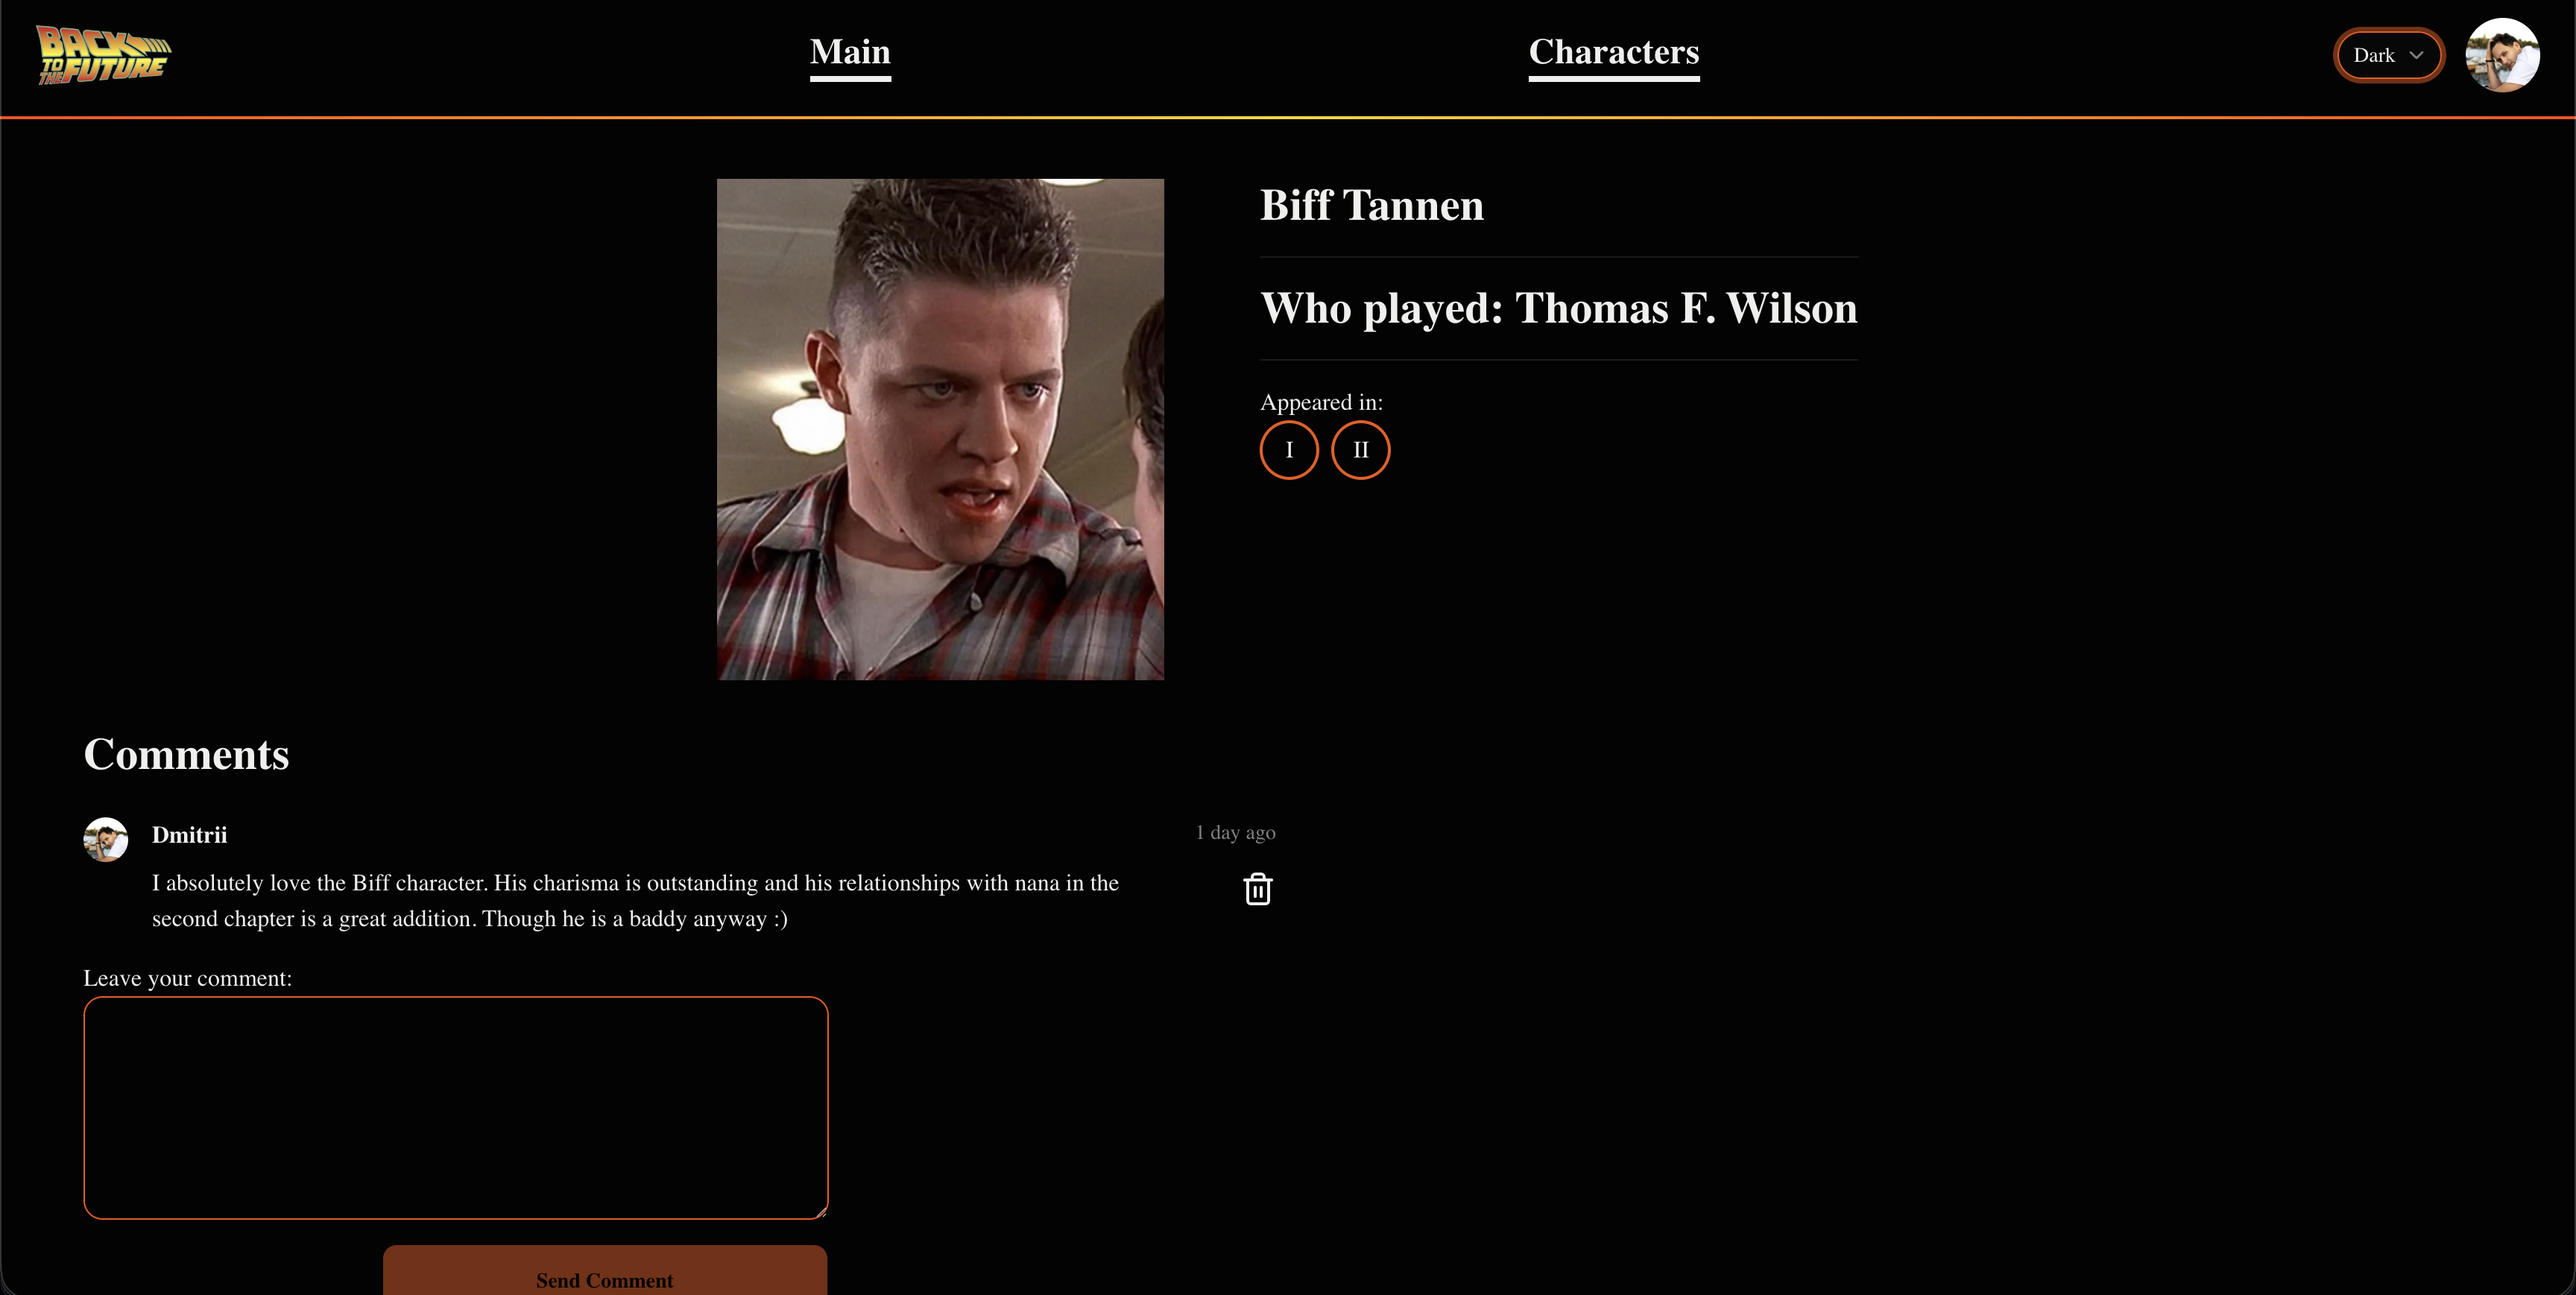
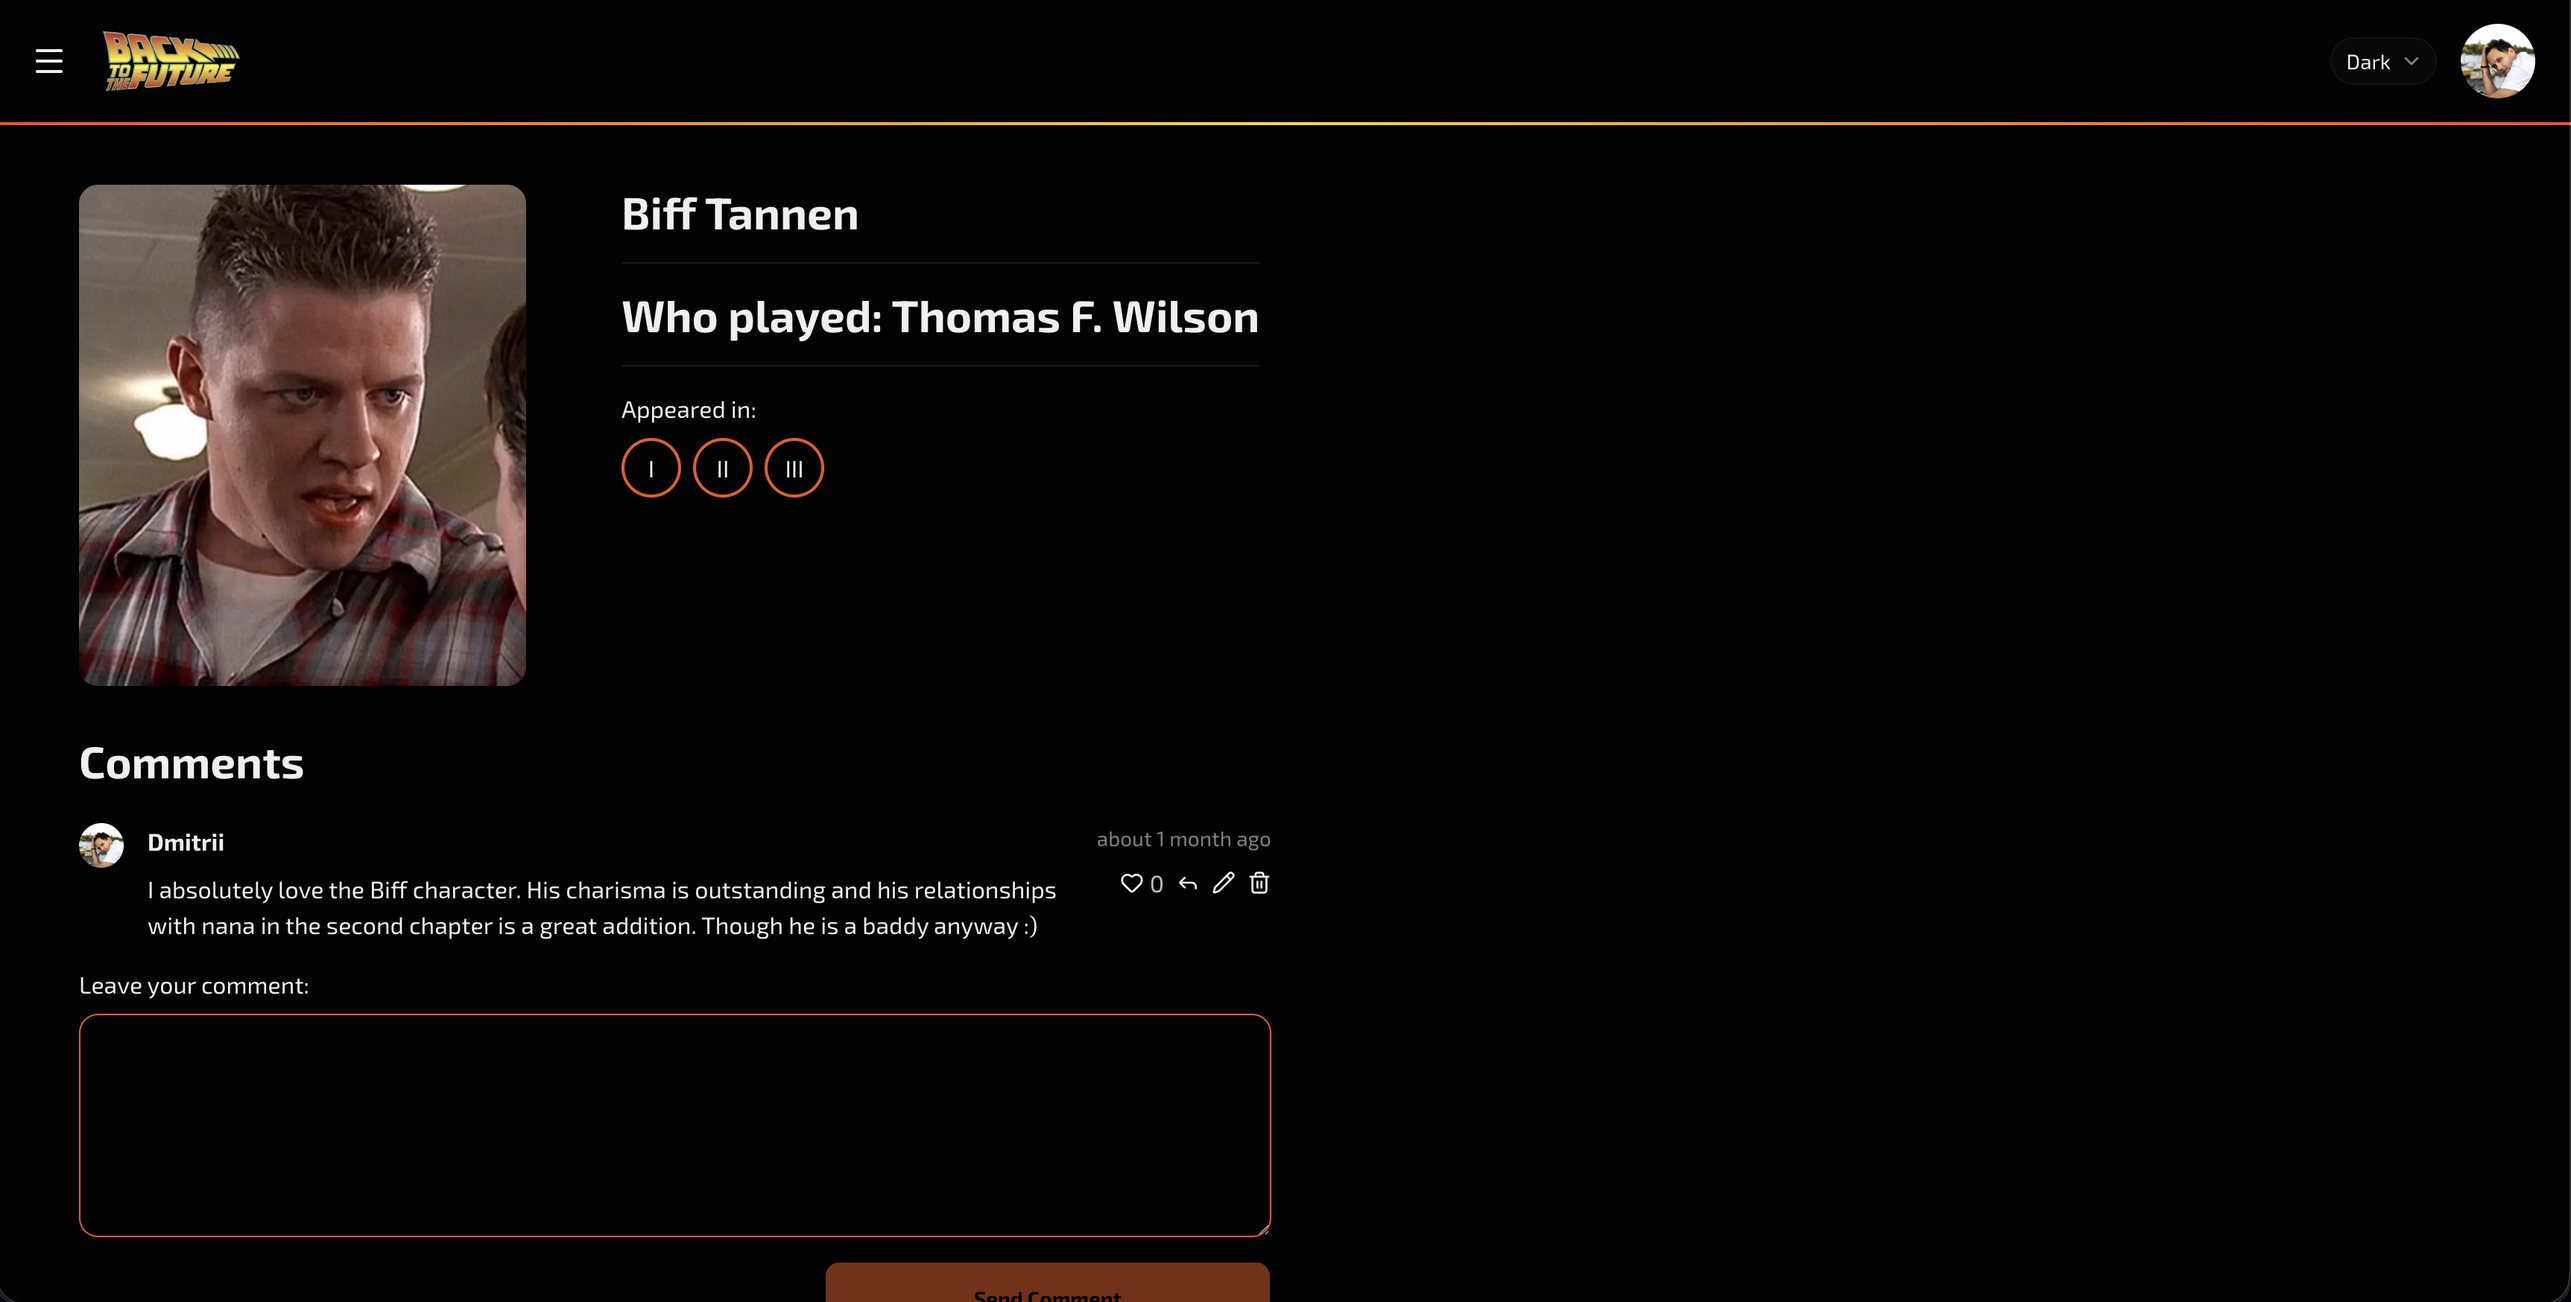
readme change

diff --git a/README.md b/README.md
@@ -6,21 +6,25 @@ A full-stack fan site for the Back to the Future trilogy, built with Next.js 16,
 
 ## Screenshots
 
-1. ### Characters page with search and film appearance indicators and different theme
+1. ### Main page with poll and information about movies from the external API
+
+   ![main-page](/src/assets/readme/main.png?raw=true)
+
+2. ### Characters page with search and film appearance indicators and different theme
 
    ![characters-dark](/src/assets/readme/characters-dark.png?raw=true)
    ![characters-light](/src/assets/readme/characters-light.png?raw=true)
 
-2. ### Interactive timeline with alternate 1985 branch
+3. ### Interactive timeline with alternate 1985 branch
 
-   ![main-timeline](/src/assets/readme/main-page.png?raw=true)
+   ![timeline-page](/src/assets/readme/timeline.png?raw=true)
 
-3. ### Profile page
+4. ### Profile page
 
-   ![profile-page](/src/assets/readme/profile-page.png?raw=true)
+   ![profile-page](/src/assets/readme/profile.png?raw=true)
 
-4. ### Character profile with comments section
-   ![profile-page](/src/assets/readme/character.png?raw=true)
+5. ### Character profile with comments section
+   ![character-page](/src/assets/readme/character.png?raw=true)
 
 ## Tech Stack
 
@@ -28,7 +32,7 @@ A full-stack fan site for the Back to the Future trilogy, built with Next.js 16,
 - **Database:** MongoDB + Mongoose
 - **Auth:** NextAuth.js with Google & GitHub OAuth
 - **Storage:** Cloudinary (image upload + avatar cropping)
-- **UI:** Tailwind CSS + shadcn/ui
+- **UI:** Tailwind CSS + shadcn/ui + Swiper
 - **Animations:** Framer Motion
 - **Deployment:** Vercel
 
@@ -37,7 +41,10 @@ A full-stack fan site for the Back to the Future trilogy, built with Next.js 16,
 - Server-side character search with MongoDB `$regex`
 - OAuth authentication via Google and GitHub
 - Comments with user avatars fetched via MongoDB aggregation pipeline
-- Comment deletion with confirmation dialog
+- Comment deletion with confirmation dialog, editing, ability to like
+- Poll implemented as a slider in a React portal, results are shown via slider as well
+- Poll results with O(n) algorithm to collect all polls result and combine it
+- Movies information from OMDB API
 - Avatar upload with crop tool (react-easy-crop + Cloudinary)
 - Interactive SVG timeline with alternate 1985 branch
 - Dark / Light theme switcher
